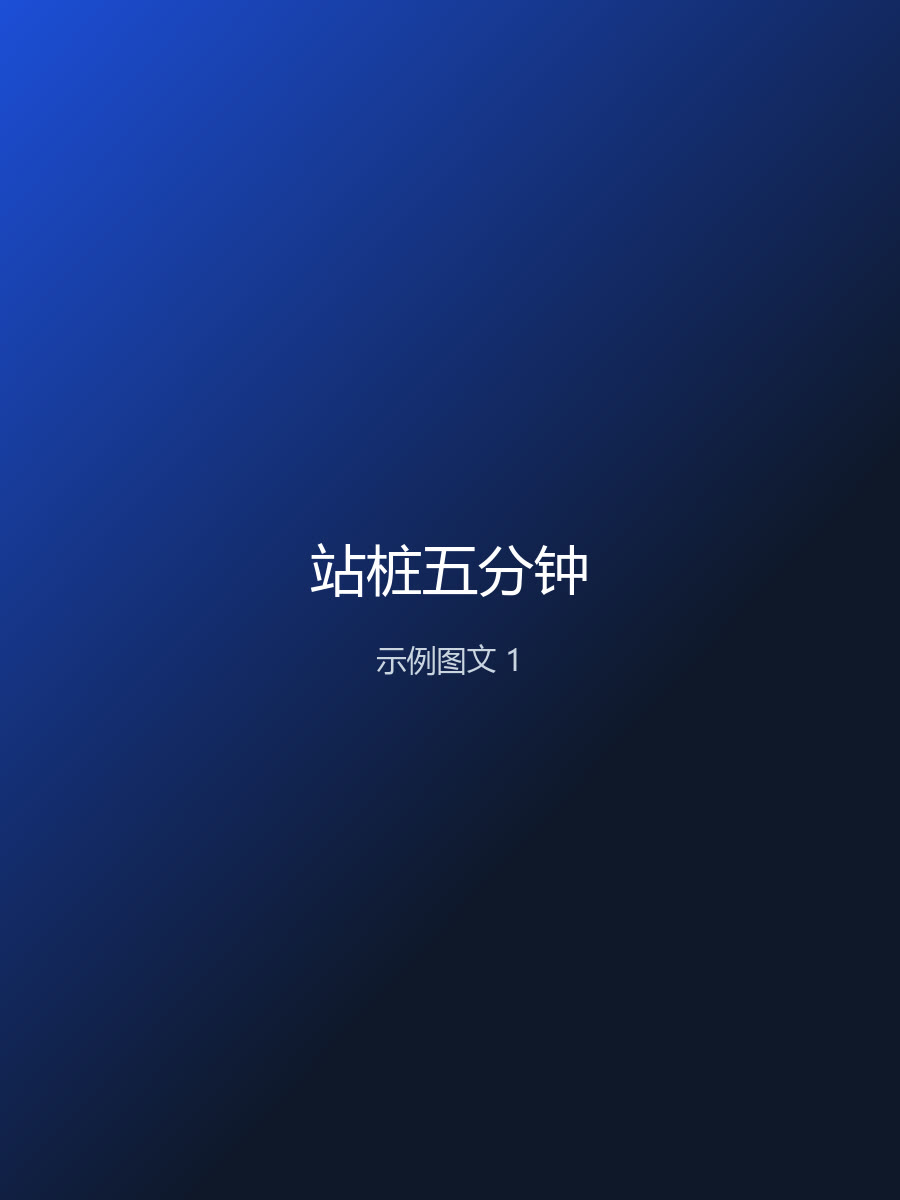
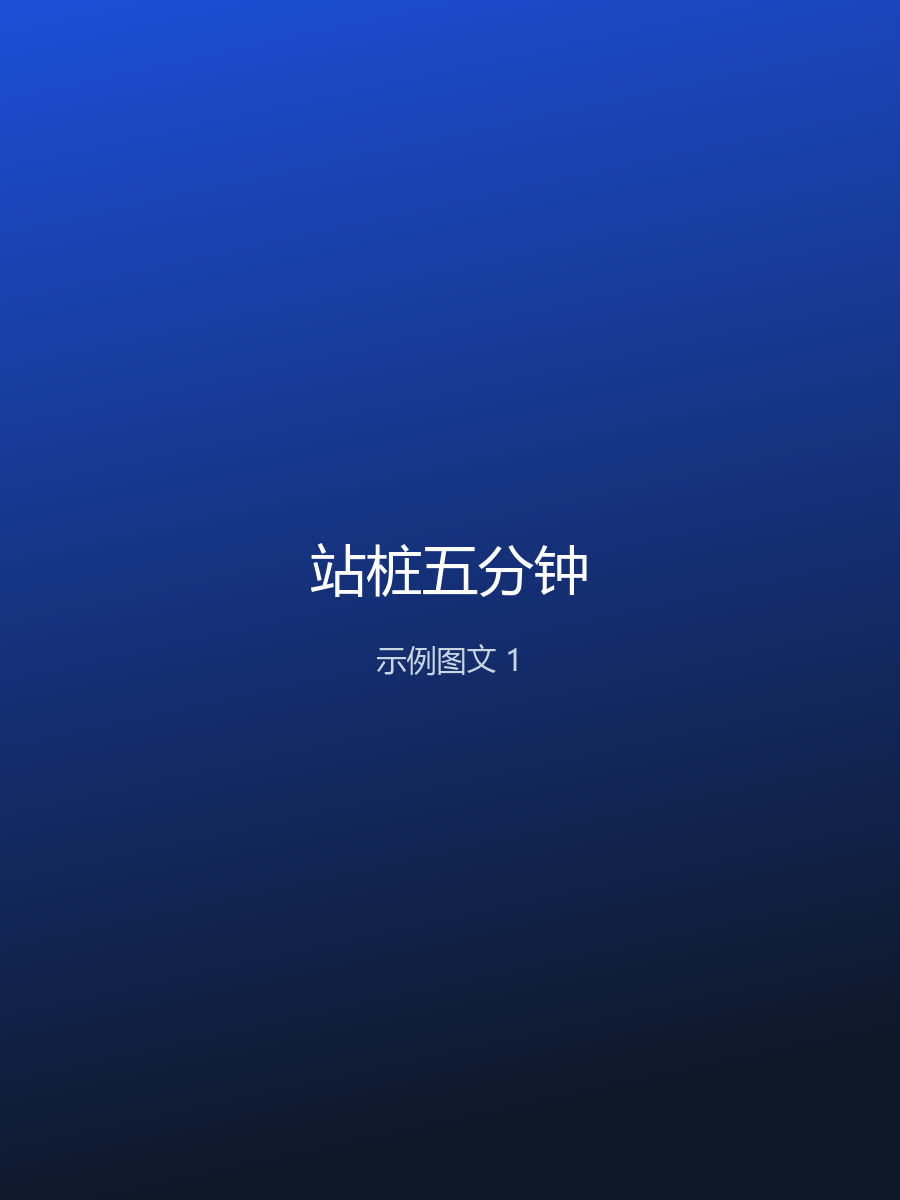
Ship a WebM fallback for the demo video
Chromium's open-source build has no H.264 decoder, so the demo video
silently failed to play there (readyState stayed 0). Real Chrome and
Safari are fine, but the demo should not depend on the codec being
present.

The demo now probes canPlayType for H.264 and picks sample-*.webm
(VP9) when it is unavailable, with sample-*.mp4 as the default.

diff --git a/demo/src/api.js b/demo/src/api.js
@@ -1245,7 +1245,8 @@ function handleDynamic(method, path, qs) {
 }
 
 /* ------------------------------------------------------------------ */
-/* 静态资源基址：demo.js 自身所在目录，媒体与下载文件都从这里取        */
+/* 视频：<video src> 由浏览器直接加载，不经过 fetch 拦截，             */
+/* 所以这里既提供 302，也用 MutationObserver 把 src 改写成静态媒体。   */
 /* ------------------------------------------------------------------ */
 
 /** 占位图：<img src="/api/..."> 不走 fetch，统一替换成内联 SVG */
@@ -1258,6 +1259,24 @@ const IMAGE_PLACEHOLDER =
   )
 
 let BASE = '/'
+
+/**
+ * 浏览器能不能播 H.264。
+ * Chromium 的开源版不带 H.264 解码器，Playwright 自带的就是这种；
+ * 部分 Linux 浏览器同样没有。探测不到就用 VP9 的 webm。
+ */
+let MP4_SUPPORTED = true
+
+function detectMp4Support() {
+  try {
+    const v = document.createElement('video')
+    if (!v.canPlayType) return
+    // 空字符串表示不支持；'maybe' 也按不支持处理（实测 Chromium 返回空）
+    MP4_SUPPORTED = v.canPlayType('video/mp4; codecs="avc1.42E01E"') !== ''
+  } catch (_) {
+    MP4_SUPPORTED = true
+  }
+}
 
 function resolveBase() {
   const s = document.currentScript
@@ -1276,7 +1295,8 @@ function resolveBase() {
 /* ------------------------------------------------------------------ */
 
 function mediaUrl(kind) {
-  return `${BASE}media/sample-${kind}.mp4`
+  const ext = MP4_SUPPORTED ? 'mp4' : 'webm'
+  return `${BASE}media/sample-${kind}.${ext}`
 }
 
 function handleVideo(id, kind) {
@@ -1489,6 +1509,7 @@ async function handle(req) {
 
 export function installDemo() {
   BASE = resolveBase()
+  detectMp4Support()
   const nativeFetch = window.fetch.bind(window)
 
   window.fetch = function demoFetch(input, init) {
